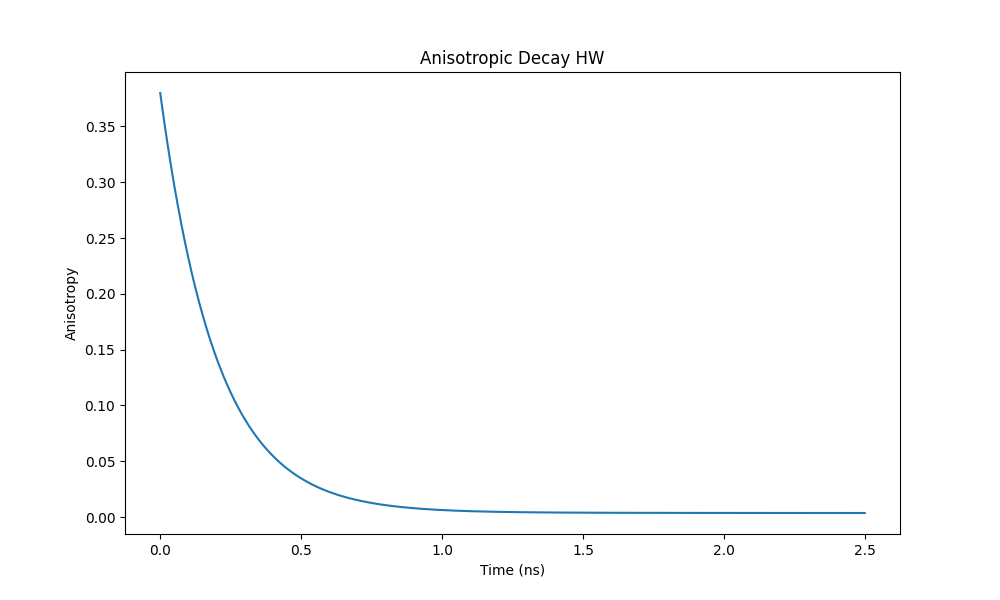
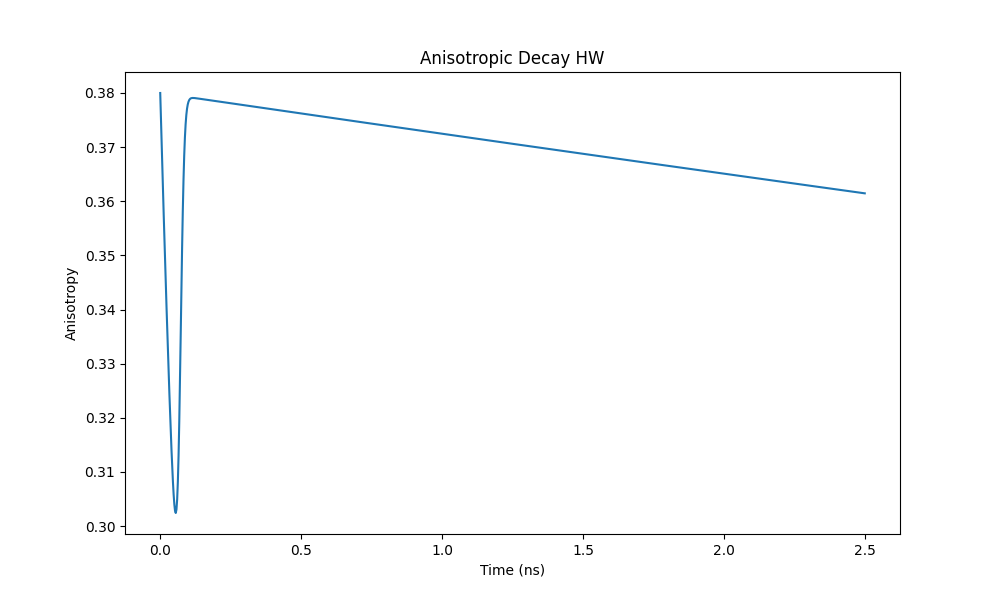
Graphed Anisotropy_Decay. Might need boundaries

diff --git a/Anisotropy_Decay.py b/Anisotropy_Decay.py
@@ -5,10 +5,19 @@ def ex_decay(t,alpha,T):
     y = 0.38 * alpha * np.exp(-t/T)
     return y
 
-x = np.linspace(0,2.5,1000)
-y1 = ex_decay(x,0.99,0.2)
-y2 = ex_decay(x,0.01,50)
-y_tot = y1 + y2
+# Setting initial conditions and lists
+alpha1 = 0.99
+alpha2 = 0.01 
+y_tot = []
+
+x = np.linspace(0.0,2.5,1000)
+for i in range(len(x)):
+    y1 = ex_decay(x[i],alpha1,0.2)
+    y2 = ex_decay(x[i],alpha2,50)
+    y_tot.append(y1+y2)
+
+    alpha1 = y1 / y_tot[i]
+    alpha2 = y2 / y_tot[i]
 
 fig = plt.figure(figsize = (10,6))
 ax = plt.subplot(111)
